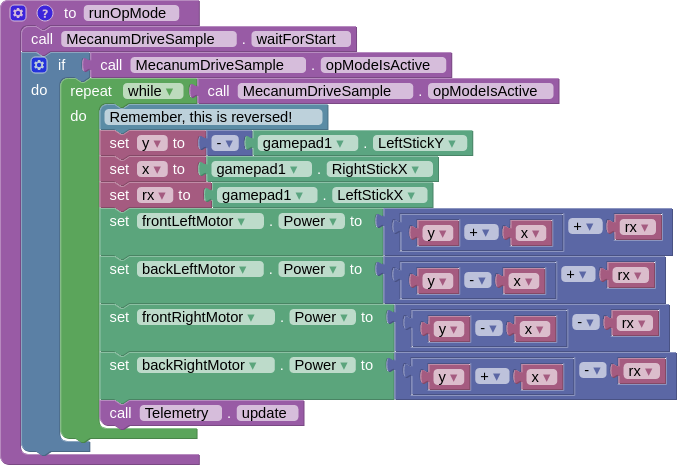
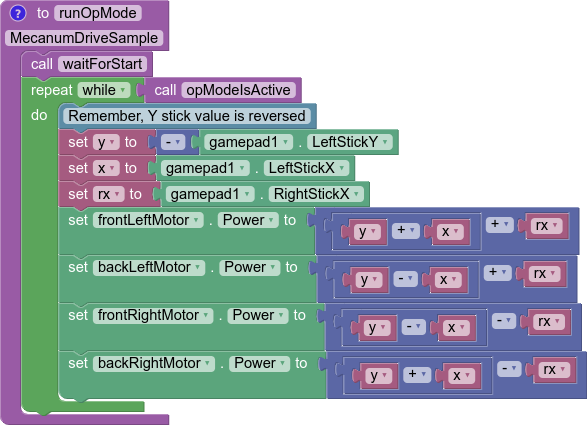
Clean up block code for initial strafing.

diff --git a/source/docs/software/tutorials/mecanum-drive.rst b/source/docs/software/tutorials/mecanum-drive.rst
@@ -89,7 +89,7 @@ We want a positive X value to correlate to rightward strafing. If we refer back 
 
       .. code-block::
 
-         double y = -gamepad1.left_stick_y; // Remember, this is reversed!
+         double y = -gamepad1.left_stick_y; // Remember, Y stick is reversed!
          double x = gamepad1.left_stick_x;
          double rx = gamepad1.right_stick_x;
 
